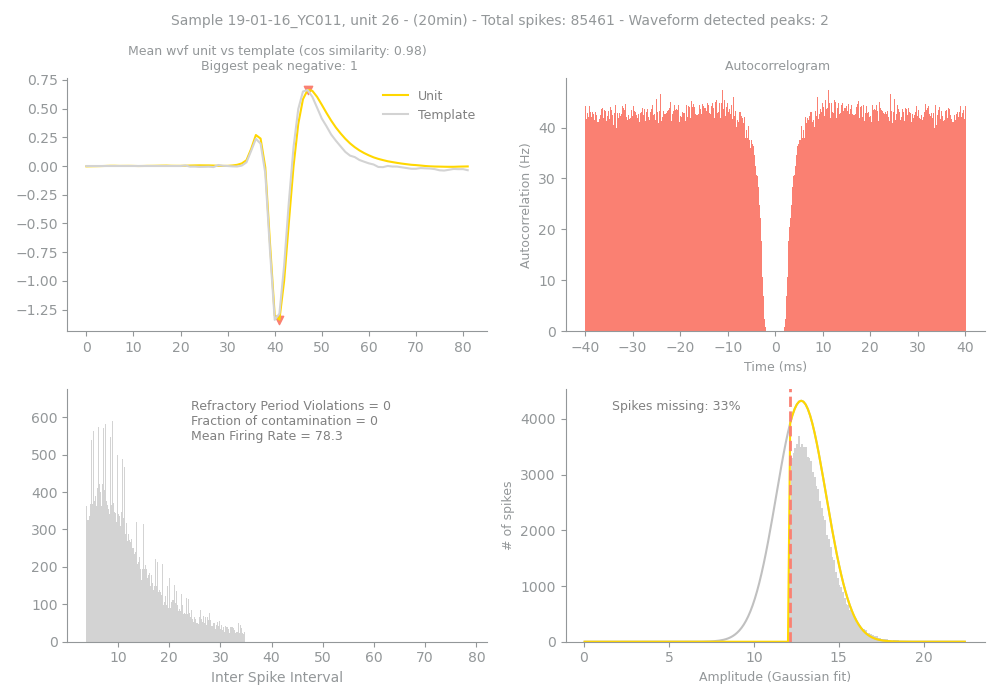
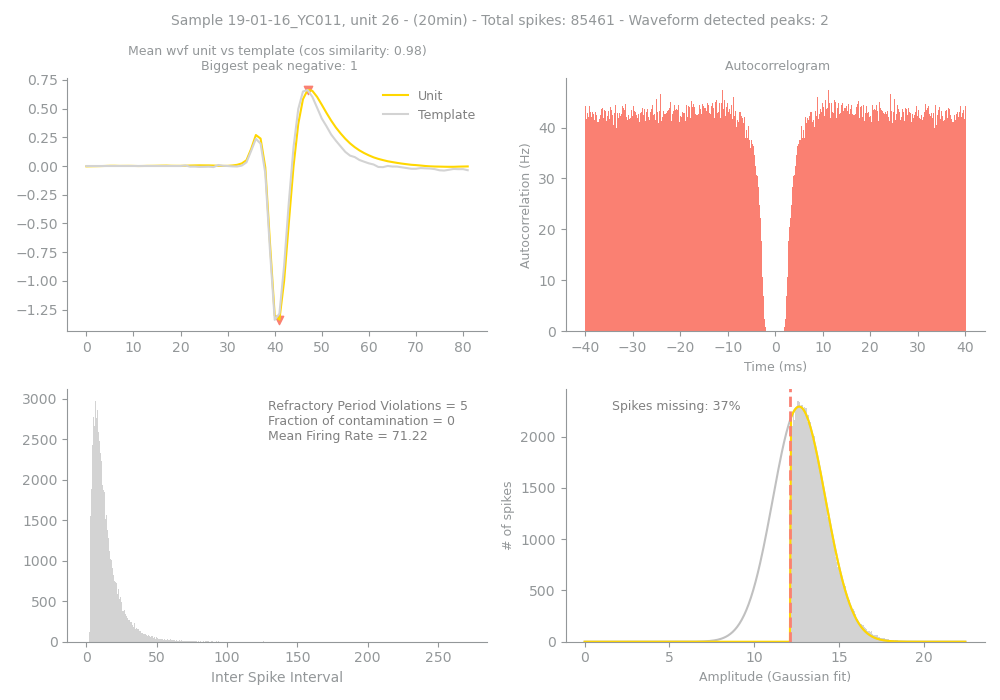
Fixings: Fp, ISI & Amplitudes plots, % Missing Spikes

diff --git a/UnitsAndChunksQualityMetrics.py b/UnitsAndChunksQualityMetrics.py
@@ -41,6 +41,7 @@ samples_fr = unit_size_s * fs
 N_chunks = int(unit_size_s / chunk_size_s)
 c_bin = 0.2
 c_win = 80
+Fp_threshold = 5  # It is already a %
 
 # Extract good units of current sample
 good_units = get_units(dp, quality='good')
@@ -126,6 +127,7 @@ for unit in good_units:
 
         # >> UNIT INTER SPIKE INTERVAL <<
         isi_unit = compute_isi(trn_ms_unit_20, exclusion_quantile)
+        isi_unit_whole = compute_isi(trn_ms_unit_20)
 
         # >> UNIT WAVEFORM AROUND PEAK CHANNEL <<
         waveform_peak_channel = np.mean(wvf(dp, unit, t_waveforms=82, subset_selection=[(0, unit_size_s)])
@@ -158,8 +160,8 @@ for unit in good_units:
             cosine_similarity(ms_norm_unit_template_peak_channel, ms_norm_waveform_peak_channel)
 
         # >> UNIT FRACTION OF CONTAMINATION AND REFRACTORY PERIOD VIOLATIONS <<
-        RVP_unit, Fp_unit = rvp_and_fp(isi_unit, N=spikes_unit_20, T=unit_size_ms, tauR=2, tauC=0.5)
-        Fp_unit_threshold = 1 if Fp_unit <= 5 else 0
+        RVP_unit, Fp_unit = rvp_and_fp(isi_unit, N=spikes_unit_20, T=unit_size_ms)
+        Fp_unit_threshold = 1 if Fp_unit <= Fp_threshold else 0
 
         # >> UNIT MEAN FIRING RATE <<
         MFR_unit = mean_firing_rate(isi_unit)
@@ -171,11 +173,11 @@ for unit in good_units:
         spike_times_unit_20 = spike_times_unit[unit_mask_20]
         amplitudes_unit_20 = amplitudes_unit[unit_mask_20]
 
-        # >> REMOVE OUTLIERS << I can't do this NOW!
+        # >> REMOVE OUTLIERS << I can't do this NOW! Not before the fit
         # amplitudes_unit_20 = remove_outliers(amplitudes_unit_20, exclusion_quantile)
 
         # >> UNIT MEAN AMPLITUDE <<
-        MA_unit = mean_amplitude(amplitudes_unit_20)
+        MA_unit = mean_amplitude(remove_outliers(amplitudes_unit_20, exclusion_quantile))
 
         # >> UNIT AMPLITUDES NORMALIZATION <<
         norm_amplitudes_unit_20 = range_normalization(amplitudes_unit_20)
@@ -193,17 +195,16 @@ for unit in good_units:
 
         # >> ESTIMATE BINS FOR AMPLITUDES HISTOGRAM <<
         unit_bins = estimate_bins(a, rule='Fd')
-        # unit_bins = estimate_bins(a, rule='Sqrt')
 
         try:
             x, p0, min_amp_unit, n_fit, n_fit_no_cut, unit_percent_missing = gaussian_amp_est(a, unit_bins)
 
         except RuntimeError:
             try:
-                unit_percent_missing = not_gaussian_amp_est(a, nBins=200)
+                unit_percent_missing = not_gaussian_amp_est(a, nBins=unit_bins)
 
             except IndexError:
-                unit_percent_missing = not_gaussian_amp_est(a, nBins=500)
+                unit_percent_missing = not_gaussian_amp_est(a, nBins=unit_bins)
 
         drift_free_unit = 1 if unit_percent_missing <= 30 else 0
 
@@ -262,15 +263,9 @@ for unit in good_units:
         # ******************************************************************************************************
         # UNIT ISI HISTOGRAM AND MEAN FIRING RATE GRAPH
 
-        # Compute ideal number of bins with Freedman-Diaconis’s Rule
-        len_ISI = int(len(isi_unit))
-        no_RVP = [i for i in isi_unit if i >= 2.0]  # 2ms
-        len_no_RVP = len(no_RVP)
-        bins = int(np.floor((len_ISI ** (1 / 3)))) * 10
-
-        axs[1, 0].hist(isi_unit, bins=bins, color='lightgray', histtype='barstacked', label='ISI')
+        isi_unit_bins = estimate_bins(isi_unit_whole, rule='Fd')
+        axs[1, 0].hist(isi_unit_whole, bins=isi_unit_bins, color='lightgray', histtype='barstacked', label='ISI')
         axs[1, 0].set_xlabel('Inter Spike Interval')
-
         leg_line_mfr = [f'Refractory Period Violations = {RVP_unit}  \n'
                         f'Fraction of contamination = {Fp_unit}  \n'
                         f'Mean Firing Rate = {MFR_unit}  \n']
@@ -285,7 +280,7 @@ for unit in good_units:
         # % OF MISSING SPIKES
 
         if all(v is not None for v in [x, p0, n_fit, n_fit_no_cut, min_amp_unit, unit_percent_missing]):
-            axs[1, 1].hist(a, bins=100, orientation='vertical', color='lightgray')
+            axs[1, 1].hist(a, bins=unit_bins, orientation='vertical', color='lightgray')
             axs[1, 1].plot(x, n_fit_no_cut, color='silver')
             axs[1, 1].plot(x, n_fit, color='gold')
             axs[1, 1].set_ylabel("# of spikes", size=9, color='#939799')
@@ -299,7 +294,7 @@ for unit in good_units:
                 lh.set_alpha(0)
 
         else:
-            axs[1, 1].hist(a, bins=100, orientation='vertical', color='salmon')
+            axs[1, 1].hist(a, bins=unit_bins, orientation='vertical', color='salmon')
 
         # ******************************************************************************************************
         # FORMATTING
@@ -316,7 +311,7 @@ for unit in good_units:
         if not os.path.exists(unit_path):
             os.makedirs(unit_path)
 
-        # fig.savefig(f"Images/Pipeline/Sample_{sample}/Unit_{unit}/sample-{sample}-unit-{unit}.png")
+        fig.savefig(f"Images/Pipeline/Sample_{sample}/Unit_{unit}/sample-{sample}-unit-{unit}.png")
         
         # ******************************************************************************************************
         # >> CHUNKS PROCESSING <<
@@ -406,9 +401,10 @@ for unit in good_units:
 
             # >> CHUNK INTER SPIKE INTERVAL <<
             isi_chunk = compute_isi(trn_ms_chunk, exclusion_quantile)
+            isi_chunk_whole = compute_isi(trn_ms_chunk)
 
             # >> CHUNK FRACTION OF CONTAMINATION AND REFRACTORY PERIOD VIOLATIONS <<
-            RVP_chunk, Fp_chunk = rvp_and_fp(isi_chunk, N=spikes_chunk, T=chunk_size_ms, tauR=2, tauC=0.5)
+            RVP_chunk, Fp_chunk = rvp_and_fp(isi_chunk, N=spikes_chunk, T=chunk_size_ms)
             l_chunk_rpv.append(RVP_chunk)
             l_chunk_fp.append(Fp_chunk)
 
@@ -419,11 +415,8 @@ for unit in good_units:
             # >> CHUNK AMPLITUDES <<
             amplitudes_chunk = amplitudes_unit_20[chunk_mask]
 
-            # >> REMOVE OUTLIERS <<
-            amplitudes_chunk = remove_outliers(amplitudes_chunk, exclusion_quantile)
-
             # >> CHUNK MEAN AMPLITUDE <<
-            MA_chunk = mean_amplitude(amplitudes_chunk)
+            MA_chunk = mean_amplitude(remove_outliers(amplitudes_chunk, exclusion_quantile))
             l_chunk_mean_amp.append(MA_chunk)
 
             # >> CHUNK AMPLITUDES NORMALIZATION <<
@@ -441,17 +434,16 @@ for unit in good_units:
 
             # >> ESTIMATE BINS FOR AMPLITUDES HISTOGRAM <<
             chunk_bins = estimate_bins(a_c, rule='Fd')
-            # chunk_bins = estimate_bins(a_c, rule='Sqrt')
 
             try:
                 x_c, p0_c, min_amp_c, n_fit_c, n_fit_no_cut_c, chunk_percent_missing = gaussian_amp_est(a_c, chunk_bins)
 
             except RuntimeError:
                 try:
-                    chunk_percent_missing = not_gaussian_amp_est(a_c, nBins=150)
+                    chunk_percent_missing = not_gaussian_amp_est(a_c, nBins=chunk_bins*5)
 
                 except IndexError:
-                    chunk_percent_missing = not_gaussian_amp_est(a_c, nBins=300)
+                    chunk_percent_missing = not_gaussian_amp_est(a_c, nBins=chunk_bins*10)
 
             l_chunk_missing_spikes.append(chunk_percent_missing)  # Criterion for chunks. <= 30
             drift_free_chunk = 1 if chunk_percent_missing <= 30 else 0
@@ -515,15 +507,9 @@ for unit in good_units:
             # ******************************************************************************************************
             # ISI HISTOGRAM AND MEAN FIRING RATE GRAPH
 
-            # Compute ideal number of bins with Freedman-Diaconis’s Rule
-            len_ISI = int(len(isi_chunk))
-            no_RVP = [i for i in isi_chunk if i >= 2.0]  # 2ms
-            len_no_RVP = len(no_RVP)
-            bins = int(np.floor((len_ISI ** (1 / 3)))) * 10
-
-            axs[1, 0].hist(isi_chunk, bins=bins, color='lightgray', histtype='barstacked', label='ISI')
+            chunk_isi_bins = estimate_bins(isi_chunk_whole, rule='Fd')
+            axs[1, 0].hist(isi_chunk_whole, bins=chunk_isi_bins, color='lightgray', histtype='barstacked', label='ISI')
             axs[1, 0].set_xlabel('Inter Spike Interval')
-
             leg_line_mfr = [f'Refractory Period Violations = {RVP_chunk}  \n'
                             f'Fraction of contamination = {Fp_chunk}  \n'
                             f'Mean Firing Rate = {MFR_chunk}  \n']
@@ -537,11 +523,7 @@ for unit in good_units:
             # ******************************************************************************************************
             # CHUNK AMPLITUDE
 
-            amplitudes_chunk_plot = distplot(amplitudes_chunk, ax=axs[1, 1], bins=80,
-                                             kde_kws={"shade": False},
-                                             kde=True, color='lightgray', hist=True)
-            nice_plot(amplitudes_chunk_plot, "Amplitudes", "", "")
-            # axs[1, 1].plot(norm_amplitudes_unit_20, color='lightgray')
+            axs[1, 1].hist(amplitudes_chunk, bins=chunk_bins, color='lightgray', histtype='barstacked', label='amps')
 
             labels_1_1 = [f'Chunk Mean Amplitude = {str(MA_chunk)} ']
             axs[1, 1].axvline(x=MA_chunk, ymin=0, ymax=0.95, linestyle='--', color='salmon')
@@ -556,7 +538,7 @@ for unit in good_units:
             # DRIFT RACKING RATIO AND MEAN AMPLITUDE
 
             if all(v is not None for v in [x_c, p0_c, n_fit_c, n_fit_no_cut_c, min_amp_c, chunk_percent_missing]):
-                axs[1, 2].hist(amplitudes_chunk, bins=200, orientation='vertical', color='lightgray')
+                axs[1, 2].hist(amplitudes_chunk, bins=chunk_bins, orientation='vertical', color='lightgray')
                 axs[1, 2].plot(x_c, n_fit_no_cut_c, color='silver')
                 axs[1, 2].plot(x_c, n_fit_c, color='gold')
                 axs[1, 2].set_ylabel("# of spikes", size=9, color='#939799')
@@ -570,7 +552,7 @@ for unit in good_units:
                     lh.set_alpha(0)
 
             else:
-                axs[1, 2].hist(amplitudes_chunk, bins=200, orientation='vertical', color='salmon')
+                axs[1, 2].hist(amplitudes_chunk, bins=chunk_bins, orientation='vertical', color='salmon')
                 leg_dtr_1_2_x = [f'Spikes missing: {chunk_percent_missing}%']
                 leg_1_2 = axs[1, 2].legend(leg_dtr_1_2_x, loc='best', frameon=False, fontsize=10)
                 for text in leg_1_2.get_texts():
@@ -596,8 +578,8 @@ for unit in good_units:
             if not os.path.exists(unit_chunks_path):
                 os.makedirs(unit_chunks_path)
 
-            #fig.savefig(
-            #    f"Images/Pipeline/Sample_{sample}/Unit_{unit}/Chunks/sample-{sample}-unit-{unit}-chunk-{i}-{chunk_len}.png")
+            fig.savefig(
+                f"Images/Pipeline/Sample_{sample}/Unit_{unit}/Chunks/sample-{sample}-unit-{unit}-chunk-{i}-{chunk_len}.png")
 
         df = pd.DataFrame(
             {'Sample': l_samples,
@@ -637,8 +619,8 @@ for unit in good_units:
             }
         )
 
-        #df.to_csv(f'Images/Pipeline/Sample_{sample}/Unit_{unit}/Summary-sample-{sample}-unit-{unit}.csv', index=False)
-        #print(f'Summary-sample-{sample}-unit-{unit}.csv  ---> Successfully created!')
+        df.to_csv(f'Images/Pipeline/Sample_{sample}/Unit_{unit}/Summary-sample-{sample}-unit-{unit}.csv', index=False)
+        print(f'Summary-sample-{sample}-unit-{unit}.csv  ---> Successfully created!')
 
         total += 1
         print('--- Progress: ', total, 'of', len(good_units))

diff --git a/AuxFunctions.py b/AuxFunctions.py
@@ -99,6 +99,7 @@ def ampli_fit_gaussian_cut(x, Nbins):
 
     p0 = [np.max(num), mode_seed, np.nanstd(a), np.percentile(a, 1)]
     p0 = np.asarray(p0, dtype='float64')
+    print('p0', p0)
 
     # Curve fit
     popt = curve_fit_(x, num, p0)
@@ -131,11 +132,15 @@ def compute_acg(dp, unit, cbin=0.2, cwin=80):
     return x, y, ylim1, ylim2
 
 
-def compute_isi(trn, quantile):
+def compute_isi(trn, *args, **kwargs):
+    quantile = kwargs.get('quantile', None)
     diffs = np.diff(trn)
     isi_ = np.asarray(diffs, dtype='float64')
-    isi_ = isi_[(isi_ >= np.quantile(isi_, quantile)) & (isi_ <= np.quantile(isi_, 1 - quantile))]
-    return isi_
+    if quantile:
+        isi_ = isi_[(isi_ >= np.quantile(isi_, quantile)) & (isi_ <= np.quantile(isi_, 1 - quantile))]
+        return isi_
+    else:
+        return isi_
 
 
 def range_normalization(x):
@@ -200,7 +205,7 @@ def cosine_similarity(wvf1, wvf2):
     return cos_sim, cos_sim_t
 
 
-def rvp_and_fp(isi, N, T, tauR=0.002, tauC=0.0005, fs=30000):
+def rvp_and_fp(isi, N, T, tauR=0.002, tauC=0.0005):
 
     # based on Hill et al., J Neuro, 2011
     # N = spikes_unit
@@ -208,7 +213,6 @@ def rvp_and_fp(isi, N, T, tauR=0.002, tauC=0.0005, fs=30000):
     # tauR = 2  # tauR: refractory period >> 2 milliseconds
     # tauC = 0.5  # tauC: censored period >> 0.5 milliseconds
 
-    # rpv = sum(isi <= tauR*fs/1000)  # Refractory period violations: in spikes
     rpv = sum(isi <= tauR)
     a = 2 * (tauR - tauC) * (N ** 2) / T  # In spikes >> r = 2*(tauR - tauC) * N^2 * (1-Fp) * Fp / T >> solve for Fp
 
@@ -217,7 +221,7 @@ def rvp_and_fp(isi, N, T, tauR=0.002, tauC=0.0005, fs=30000):
         overestimate = 0
     else:
         rts = np.roots([-1, 1, -rpv/a])
-        Fp = min(rts)  # r >> solve for Fp
+        Fp = int(100 * round(min(rts), 2))  # r >> solve for Fp
         overestimate = 0
         if isinstance(Fp, complex):
             overestimate = 1
